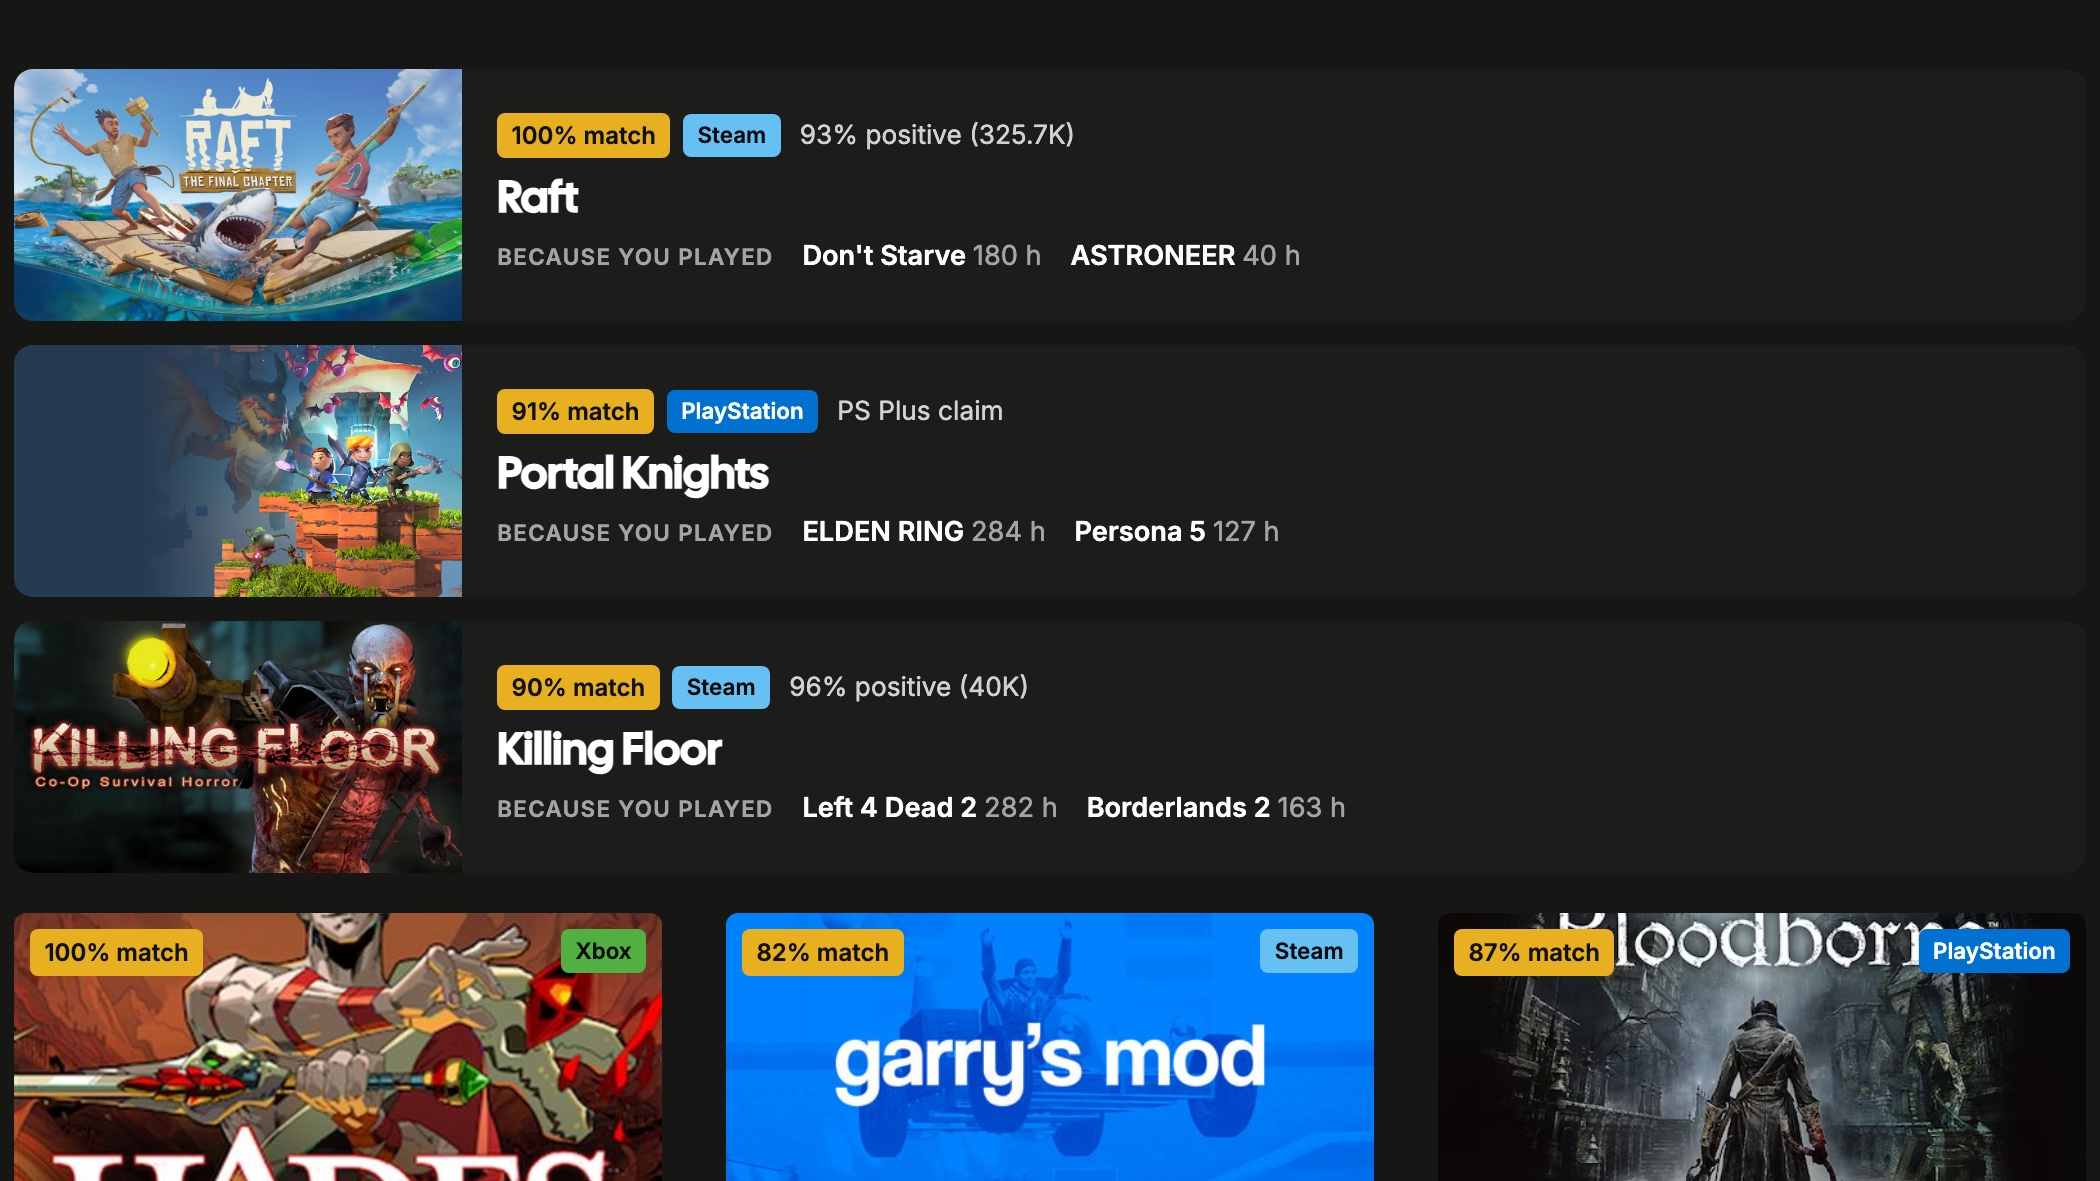
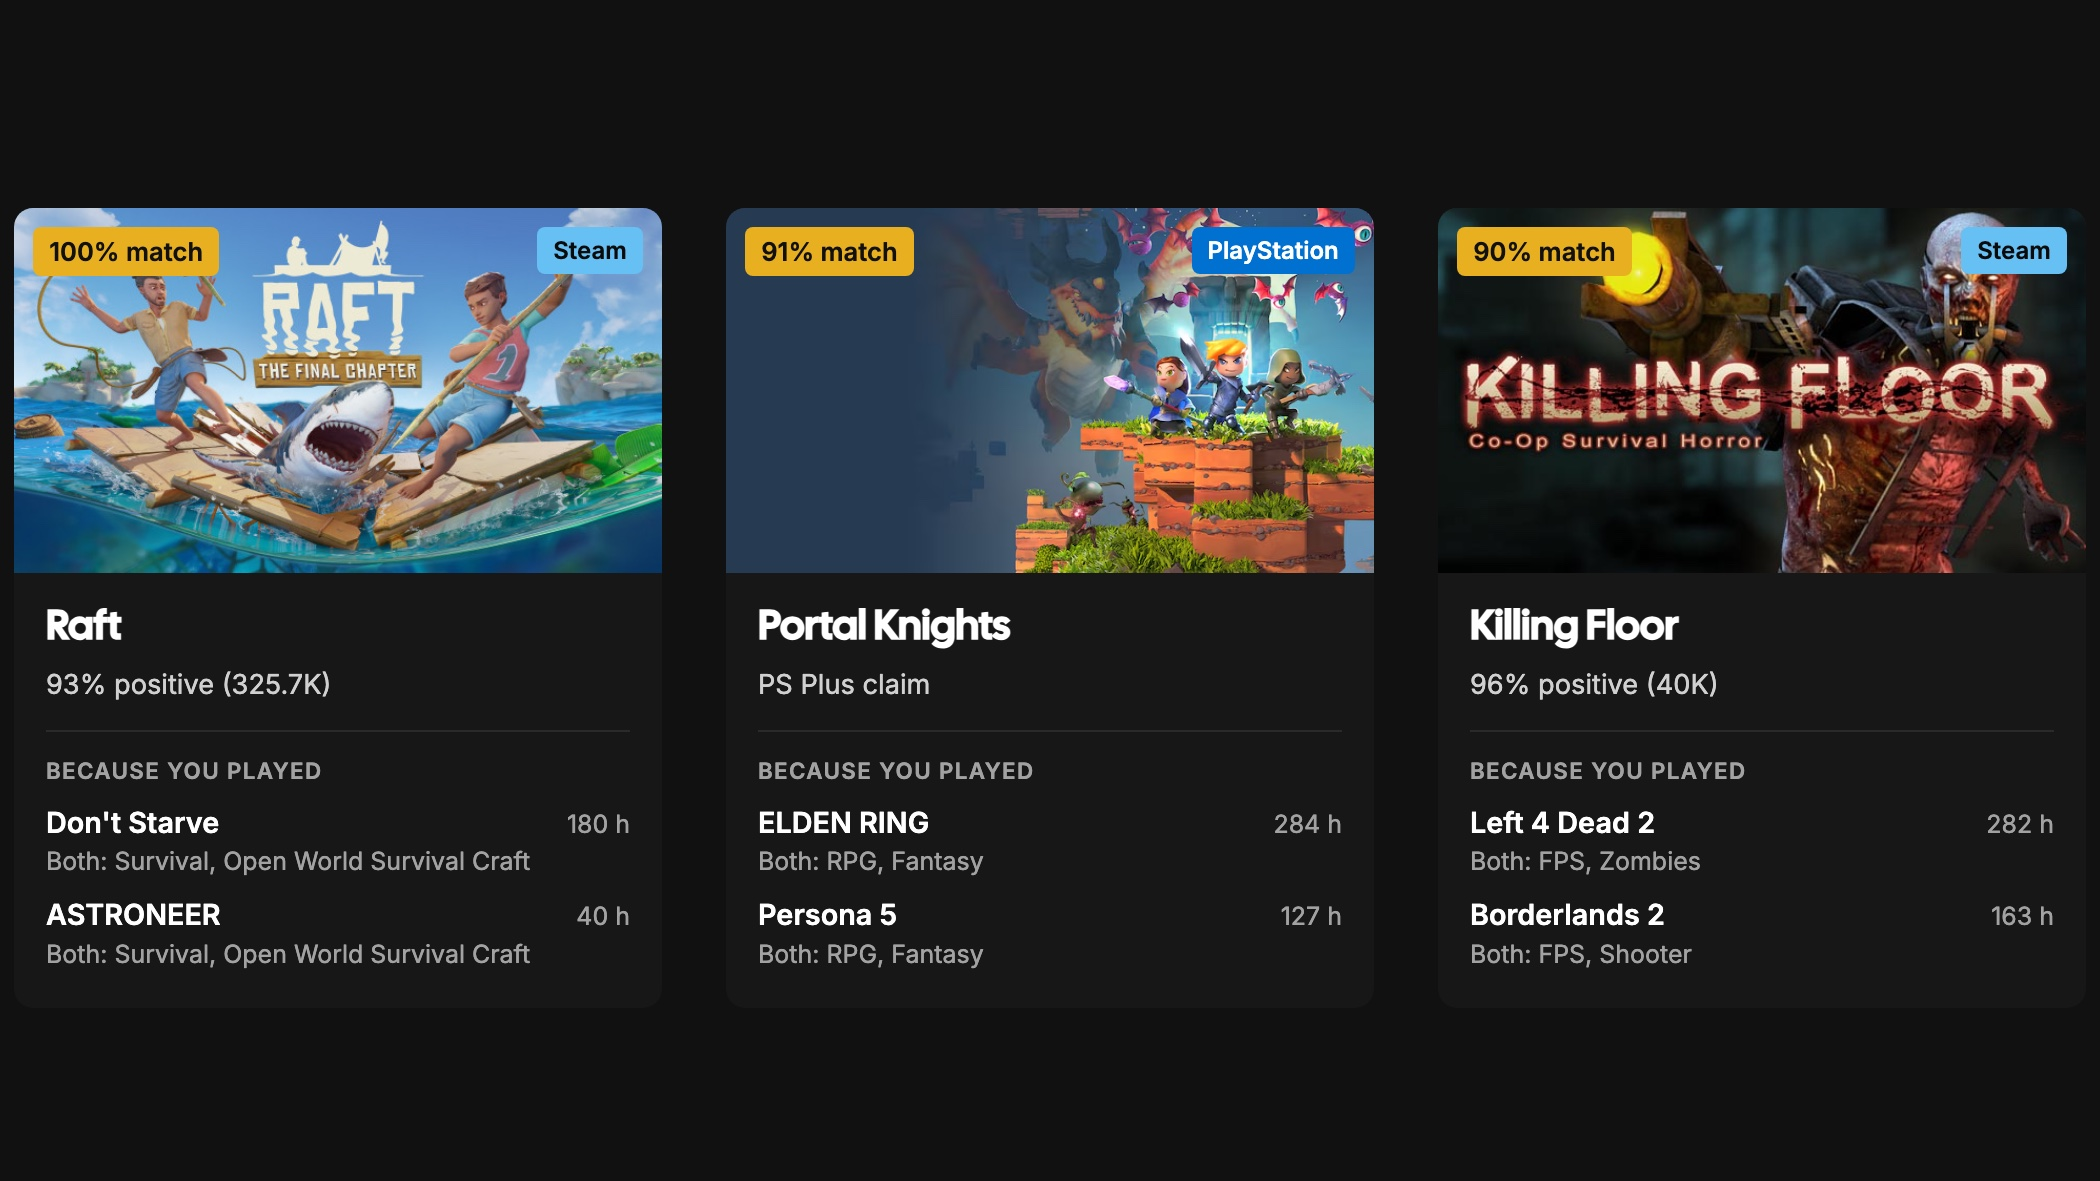
Move the backlog module up, top picks back to cards, best value to Under the hood
- The top three are cards again, in a row: artwork with match and platform on
  top, then the title, reviews, and the games I've played each one is like.
- "Best value per hour" moves to the Steam page under Under the hood, where it
  sits in a new Value section (it only uses Steam list prices).
- In its place on /games is a big count of games never launched (500: every game
  with zero minutes on every platform, not just the ones that can be matched),
  beside Unplayed gems and Priciest untouched, each capped at five. The module is
  now "Your backlog" and sits directly under the top picks.
- Backlog thumbnails use each game's own header image, since newer Steam games
  have no plain capsule file and showed as broken images.
- Experiments cover image updated to the new cards.

diff --git a/src/lib/games.ts b/src/lib/games.ts
@@ -128,6 +128,10 @@ export function analyzeAll() {
       xboxMinutes,
       games: entries.length,
       played: played.length,
+      /** Never launched on any platform. Games in the Xbox history are left out: Xbox launched them but can't say for how long. */
+      unplayed: entries.filter((e) => e.minutes === 0 && !e.xbox).length,
+      unplayedSteam: steam.totals.unplayed,
+      unplayedPsn: psn.totals.unplayed,
       multi: entries.filter((e) => platformCount(e) > 1).length,
       achievements: steam.totals.achUnlocked + psn.trophies.total + xbox.totals.achievements,
       steamAchievements: steam.totals.achTotal > 0,
